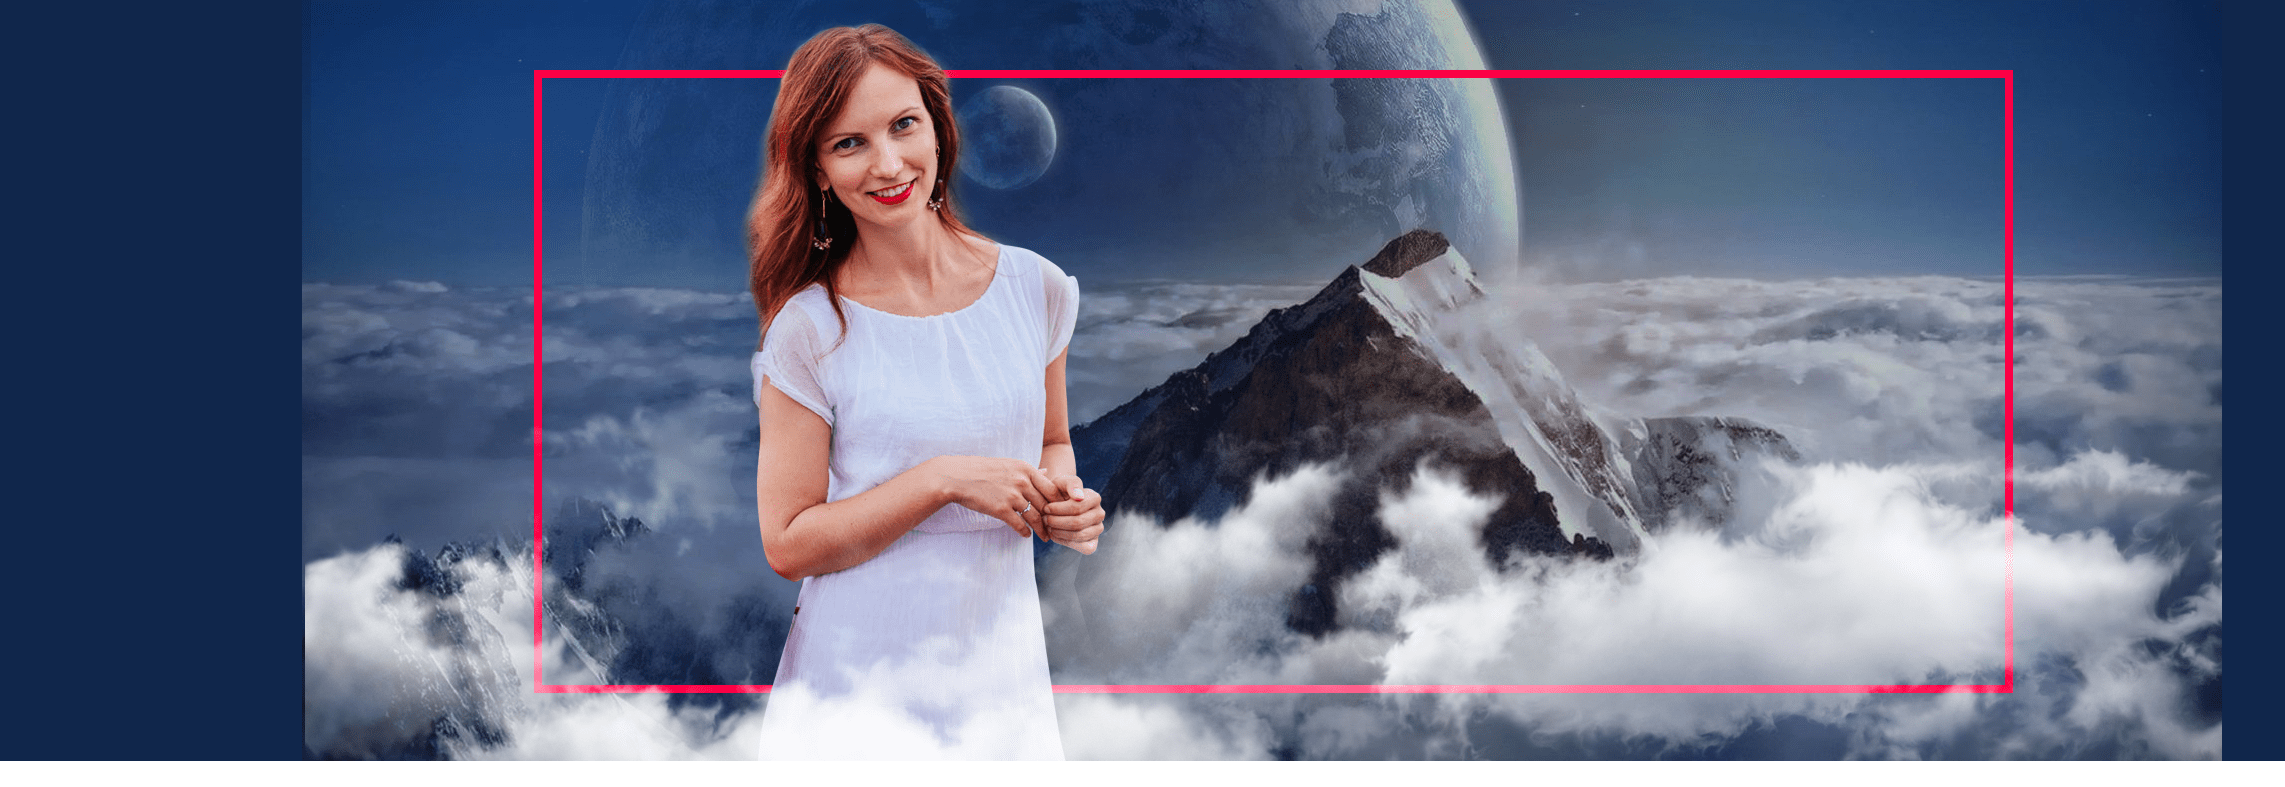
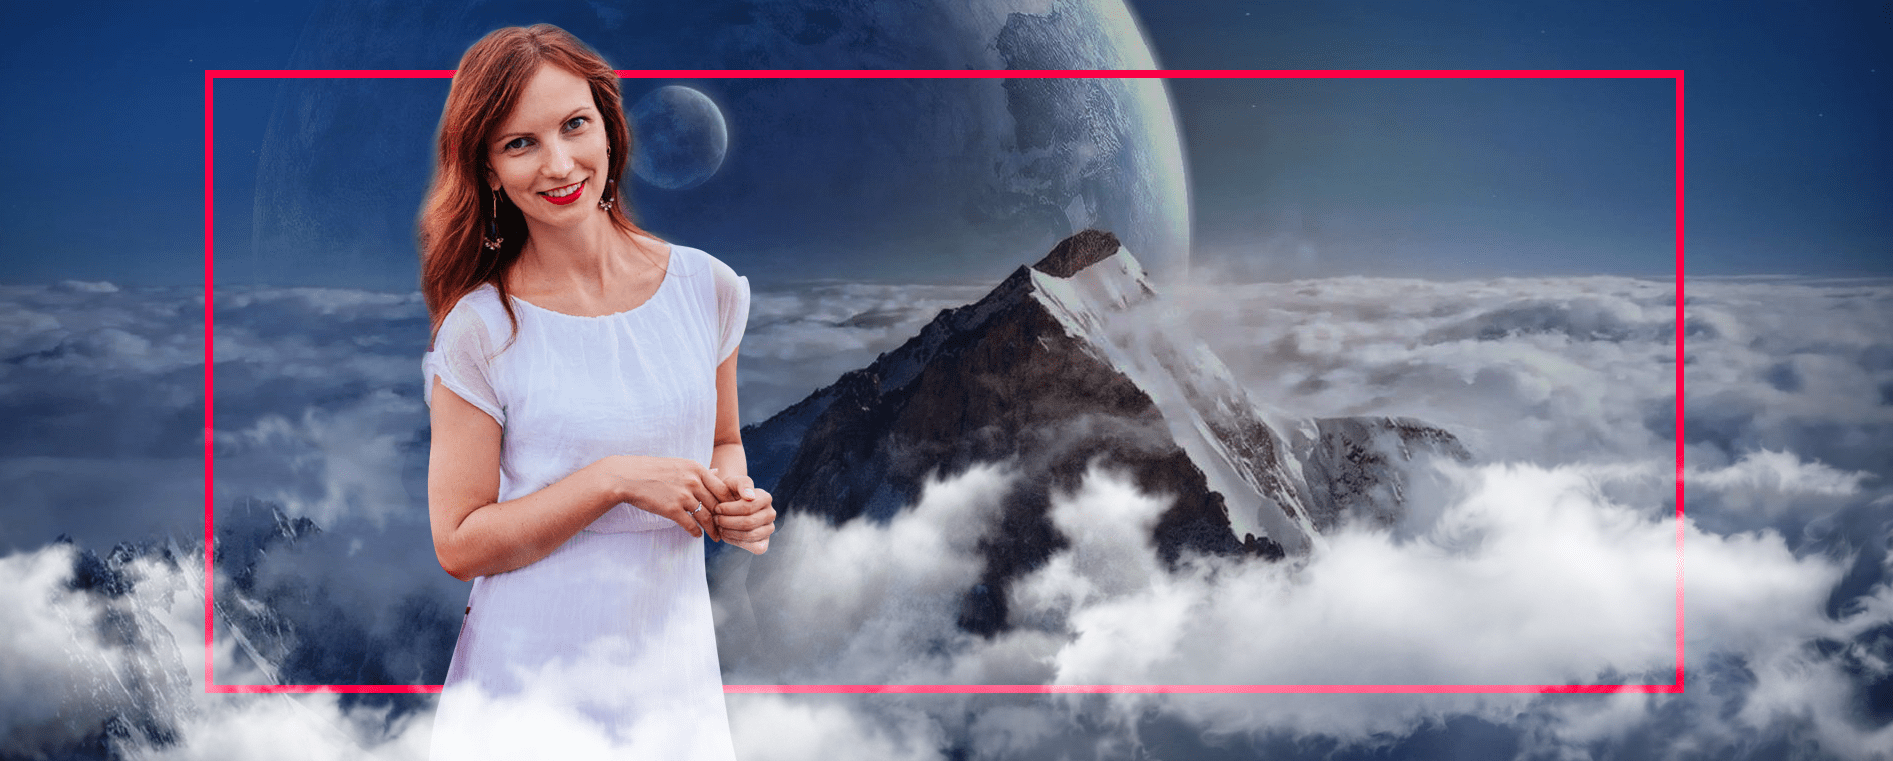
add changes

diff --git a/Sila v mysli/css/responsive.css b/Sila v mysli/css/responsive.css
@@ -15,7 +15,6 @@
 
     .welcome{
         min-height: 600px;
-        background-position: 77%;
     }
 
     .welcome .welcome-content{
@@ -80,7 +79,6 @@
 
     .programs .welcome{
         min-height: auto;
-        background-position: 62% 50%;
     }
 
     .programs .welcome .welcome-content{
@@ -116,9 +114,6 @@
 
     /* Health */
 
-    .health .welcome{
-        background-position: 66% 50%;
-    }
     .health h1{
         text-align: center;
     }
@@ -140,12 +135,13 @@
         width: 100%;
     }
 
+    .articles-content .right, .articles-content .left{
+        height: 733px;
+    }
+
 }
 
 @media (width: 1024px) {
-    .welcome{
-        background-position: 65%;
-    }
 
     .welcome .welcome-content p{
         padding-bottom: 56px;
@@ -220,7 +216,6 @@
 
     .welcome {
         min-height: auto;
-        background-position: 68%;
     }
 
     .welcome .welcome-content p{
@@ -228,6 +223,7 @@
         line-height: 30px;
         padding-bottom: 40px;
         padding-top: 10px;
+        padding-right: 20px;
     }
 
     .welcome .welcome-content{
@@ -307,6 +303,11 @@
         object-position: 24%;
     }
 
+    .articles-content .right, .articles-content .left{
+        height: auto;
+        min-height: 605px;
+    }
+
     .video{
         padding-bottom: 40px;
     }
@@ -375,10 +376,6 @@
 
     .programs .welcome-content .btn-default{
         margin: 0 8px;
-    }
-
-    .programs .welcome {
-        background-position: 58% 50%;
     }
 
     .programs .changes{
@@ -574,7 +571,7 @@
 @media (max-width: 767px){
     .welcome {
         min-height: 220px;
-        background-position: 44%;
+        background-position: 34%;
     }
 
     h1{
@@ -851,7 +848,7 @@
     }
 
     .fate .welcome {
-        background-position: 57% 7%;
+        background-position: center 7%;
     }
 
     /* Health */
@@ -905,6 +902,10 @@
         height: 231px;
     }
 
+    .articles-content .right, .articles-content .left{
+        min-height: auto;
+    }
+
 }
 
 @media (max-width: 479px) {
@@ -936,7 +937,7 @@
     }
 
     .welcome{
-        background-position: 76%;
+        background-position: 71%;
     }
 
     .welcome .welcome-content{
@@ -1057,7 +1058,7 @@
     /* Wealth */
 
     .programs .welcome {
-        background-position: 56% 50%;
+        background-position: 49%;
     }
 
     .programs .logo{

diff --git a/Sila v mysli/css/style.css b/Sila v mysli/css/style.css
@@ -245,7 +245,7 @@ header .top-panel{
     background-image: url("../img/bg-header.png");
     background-size: cover;
     background-color: rgba(250, 250, 250);
-    background-position: 83% 54%;
+    background-position: center;
     min-height: 787px;
 }
 
@@ -622,7 +622,7 @@ footer .soc-link ul li{
     background: url("../img/wealth-bg-header.png");
     background-repeat: no-repeat;
     background-size: cover;
-    background-position: 83% 50%;
+    background-position: center;
 }
 
 .programs .welcome{
@@ -691,6 +691,7 @@ footer .soc-link ul li{
     height: 150px;
     margin-bottom: 18px;
     padding: 0;
+    border: 1px solid transparent;
 }
 
 .programs .item:hover{
@@ -786,8 +787,8 @@ footer .soc-link ul li{
 .programs .about{
     background: url("../img/wealth-bg.png");
     padding-bottom: 61px;
-    background-size: 150%;
-    background-position: 65% 13%;
+    background-size: cover;
+    background-position: center;
     background-repeat: no-repeat;
 }
 
@@ -855,7 +856,7 @@ footer .soc-link ul li{
     background: url("../img/relationship-bg-header.png");
     background-repeat: no-repeat;
     background-size: cover;
-    background-position: 83% 50%;
+    background-position: center;
 }
 
 .relationship h1{
@@ -933,7 +934,7 @@ footer .soc-link ul li{
 .fate .welcome{
     background: url("../img/fate-bg-header.png");
     background-repeat: no-repeat;
-    background-position: 83% 50%;
+    background-position: center;
 }
 
 .fate .welcome .welcome-content{
@@ -984,7 +985,8 @@ footer .soc-link ul li{
 .health .welcome{
     background: url("../img/health-bg-header.png");
     background-repeat: no-repeat;
-    background-position: 83% 50%;
+    background-position: center;
+    background-size: cover;
 }
 
 .health h1{
